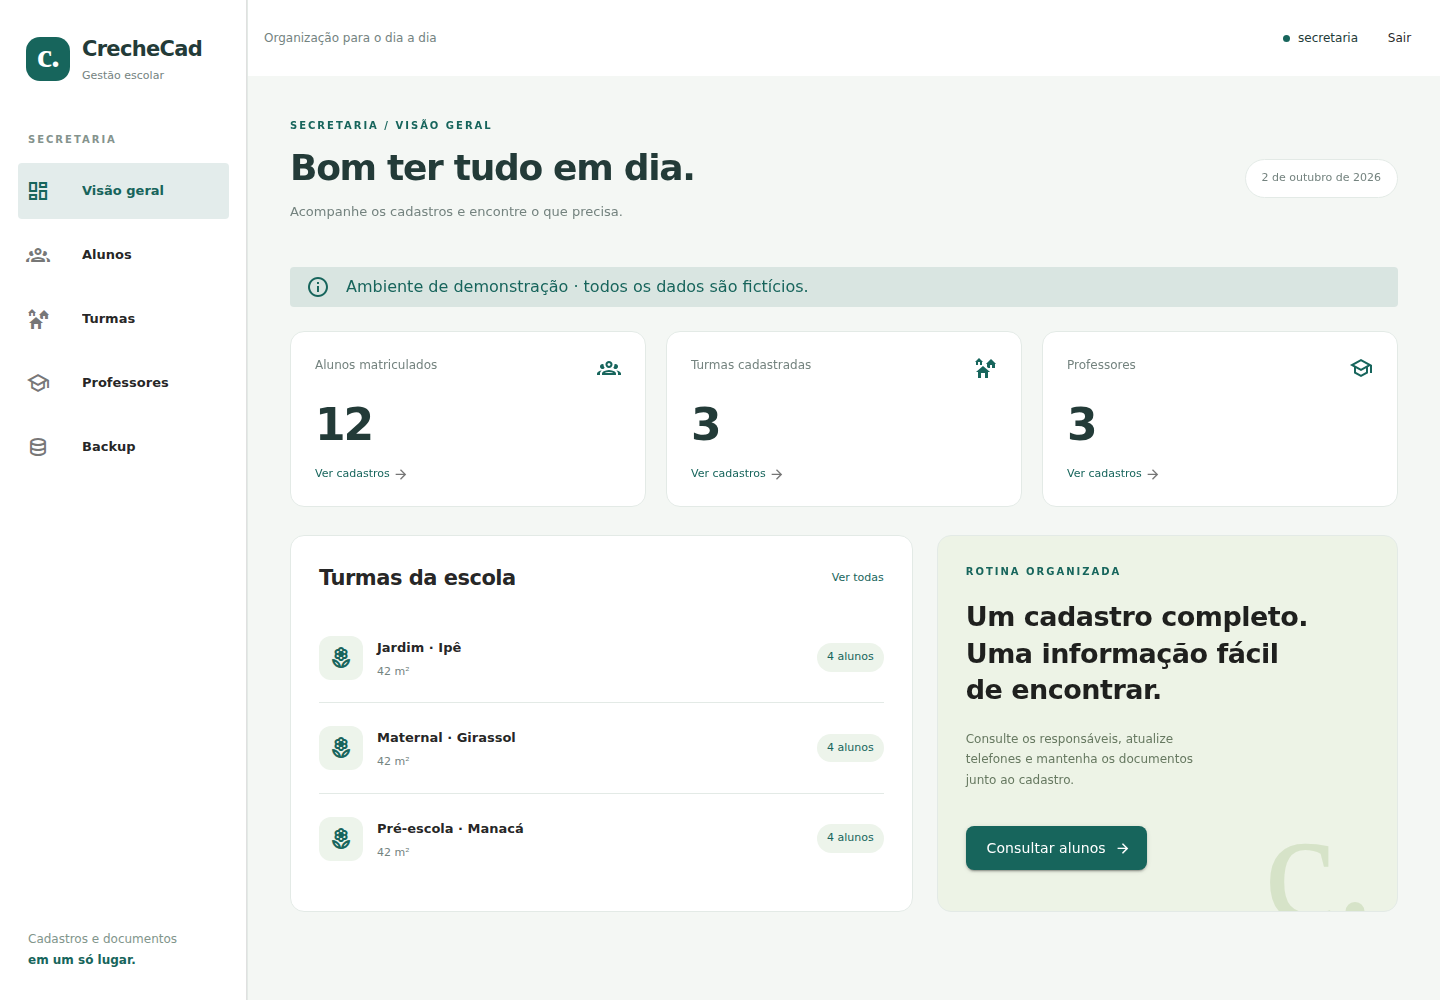
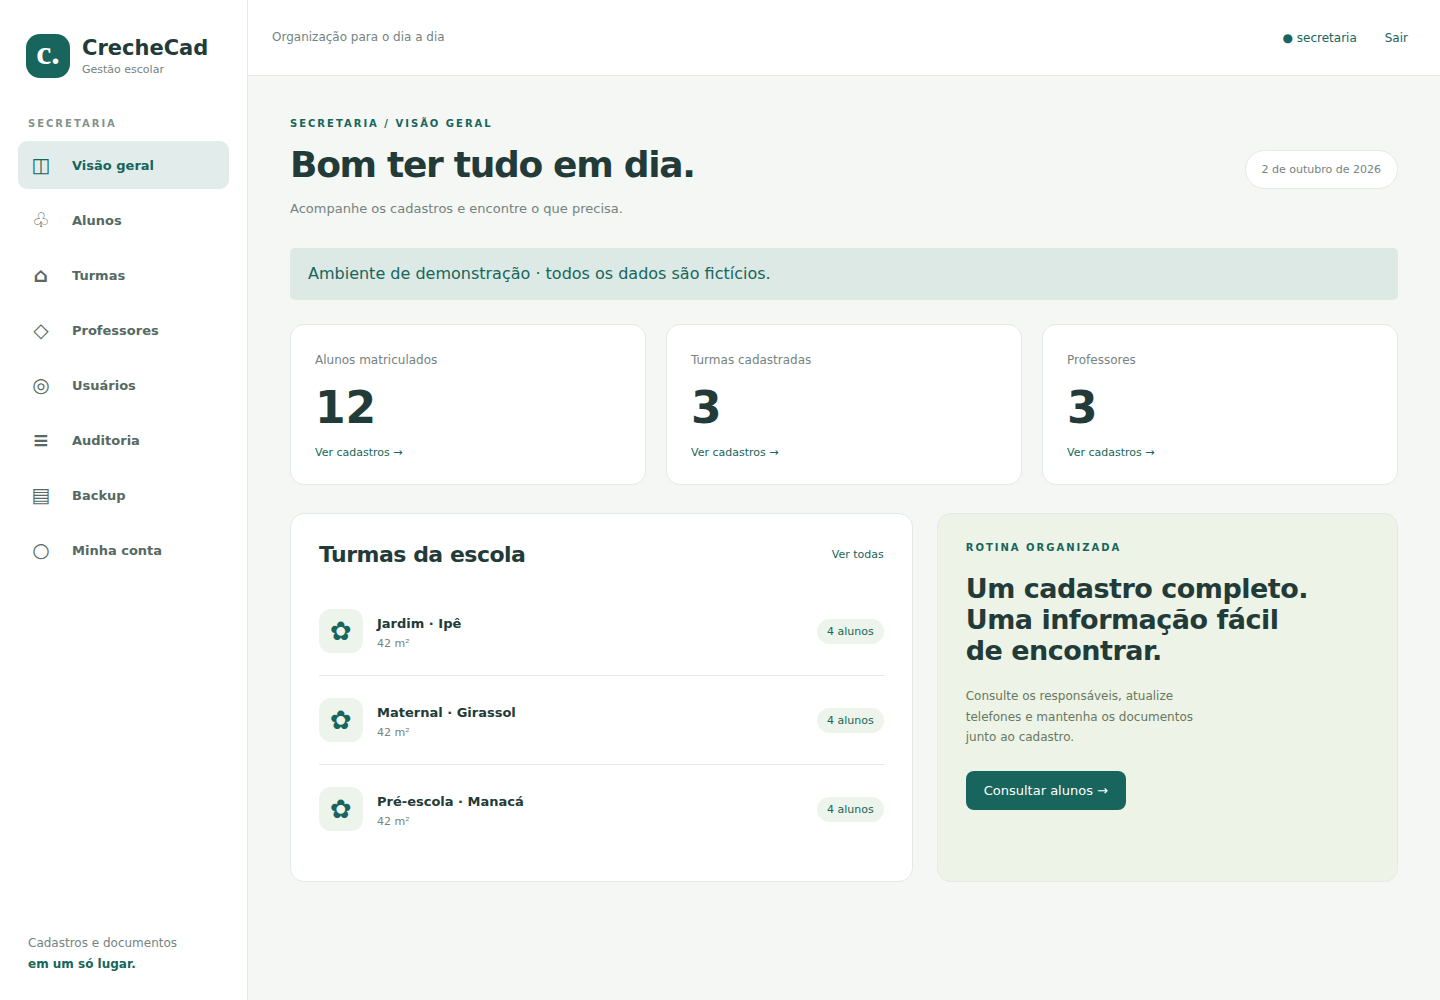
Present completed .NET applications with current screenshots and evaluation walkthroughs

diff --git a/script.js b/script.js
@@ -92,7 +92,7 @@ const translations = {
     contribution: "Implementação",
     decisions: "Decisões técnicas",
     proof: "Testes e código",
-    limits: "O que falta",
+    limits: "Como executar",
     close: "Fechar detalhes",
     complete: "Aplicação completa · Docker Compose",
     archive: "Estudo anterior · .NET 6",
@@ -194,7 +194,7 @@ const translations = {
     contribution: "Implementation",
     decisions: "Technical decisions",
     proof: "Tests and source",
-    limits: "Remaining work",
+    limits: "How to run",
     close: "Close project details",
     complete: "Complete application · Docker Compose",
     archive: "Earlier study · .NET 6",
@@ -222,22 +222,22 @@ const projects = [
       "Playwright"
     ],
     "code": "https://github.com/LucianoNeo/portfolio/tree/main/projects/neotasks-dotnet",
-    "pt": "Reaproveitei minha interface React e conectei a uma API .NET com PostgreSQL. Projetos, tarefas, equipe e horas em uma aplicação que você pode executar com Docker Compose.",
-    "en": "I reused my React interface and connected it to a .NET API with PostgreSQL. Projects, tasks, team members and time tracking in an application you can run with Docker Compose.",
+    "pt": "Projetos, tarefas e horas do time com dados separados por organização. Interface React, API .NET e PostgreSQL, com recuperação de senha, renovação de sessão, auditoria e busca paginada. Executável com Docker Compose.",
+    "en": "Team projects, tasks and time entries with separate organization data. React interface, .NET API and PostgreSQL, with password recovery, session renewal, audit history and paginated search. Runs with Docker Compose.",
     "study": {
       "pt": [
-        "Reunir projetos, tarefas e horas do time, com dados separados por organização.",
-        "Adaptei os componentes da minha interface React para uma API em C#/.NET. Incluí cadastro de organização, login, gestão de equipe, tarefas e apontamentos. Interface, API e PostgreSQL sobem juntos com Docker Compose.",
-        "A organização vem do JWT. Owner gerencia projetos e colaboradores; membros trabalham nas tarefas. Atualizações usam controle de concorrência e os horários são armazenados em UTC. O Nginx atende a interface e encaminha as chamadas à API.",
-        "Testes HTTP usam PostgreSQL real. O GitHub Actions compila o Compose e executa o fluxo no Chromium com Playwright, incluindo cadastro, permissões, edição, horas e persistência após reiniciar os containers.",
-        "É uma demonstração para avaliação local; o README explica como executar. Ainda faltam recuperação de senha, renovação de token, auditoria, paginação do contrato da interface e migrations."
+        "Reunir projetos, tarefas e horas do time, mantendo os dados de cada organização separados.",
+        "Adaptei minha interface React para uma API C#/.NET e PostgreSQL. Completei cadastro, equipe, tarefas, apontamentos, confirmação de e-mail, recuperação de senha e auditoria. O Compose também entrega uma caixa de e-mail para testar os fluxos.",
+        "Owner gerencia projetos e colaboradores; membros trabalham nas tarefas. O acesso usa JWT e um refresh token rotativo em cookie HttpOnly. A busca e a paginação são feitas no servidor. Horários ficam em UTC, atualizações usam controle de concorrência e migrations atualizam o banco sem apagar os dados da versão anterior.",
+        "Testes de integração usam PostgreSQL real e verificam isolamento, permissões, concorrência, horários, paginação e atualização do esquema. Playwright percorre a interface, a confirmação de e-mail, a recuperação de senha, a renovação de sessão e a persistência após reiniciar os containers.",
+        "Na pasta projects/neotasks-dotnet, execute docker compose up --build e abra localhost:8080. Crie sua organização e use localhost:8025 para ler os e-mails da demonstração. O README traz as capturas e o roteiro de avaliação."
       ],
       "en": [
         "Bring together the team's projects, tasks and time entries while separating each organization's data.",
-        "I adapted the components from my React interface to a C#/.NET API. Organization signup, login, team management, tasks and time entries are included. Docker Compose starts the interface, API and PostgreSQL together.",
-        "Organization identity comes from the JWT. Owners manage projects and team members; members work on tasks. Updates use concurrency checks and timestamps are stored in UTC. Nginx serves the interface and forwards API requests.",
-        "HTTP tests use real PostgreSQL. GitHub Actions builds the Compose stack and runs the flow in Chromium with Playwright, covering signup, permissions, edits, time entries and persistence after container restarts.",
-        "This is a demonstration for local evaluation; the README explains how to run it. Password recovery, token renewal, auditing, pagination for the UI contract and migrations are still missing."
+        "I adapted my React interface to a C#/.NET API and PostgreSQL. Signup, team management, tasks, time entries, email confirmation, password recovery and auditing are included. Compose also provides an email inbox to test the workflows.",
+        "Owners manage projects and team members; members work on tasks. Authentication uses JWT and a rotating refresh token in an HttpOnly cookie. Search and pagination run on the server. Timestamps use UTC, updates check concurrency, and migrations upgrade the database while preserving data from the previous release.",
+        "Integration tests use real PostgreSQL and cover isolation, permissions, concurrency, time calculations, pagination and schema upgrades. Playwright exercises the interface, email confirmation, password recovery, session renewal and persistence after container restarts.",
+        "In projects/neotasks-dotnet, run docker compose up --build and open localhost:8080. Create an organization and use localhost:8025 to read demo emails. The README includes screenshots and a review walkthrough."
       ]
     }
   },
@@ -253,27 +253,27 @@ const projects = [
       ".NET 10",
       "EF Core",
       "SQLite",
-      "Vue / Nuxt",
+      "Vue 3 / Nuxt 4",
       "Docker Compose",
       "Playwright"
     ],
     "code": "https://github.com/LucianoNeo/creche_cad_backend_csharp",
-    "pt": "Cadastro de alunos, turmas, professores e documentos. API C#/.NET, interface Vue/Nuxt e execução com Docker Compose. Revisei o login, as consultas e o backup, e documentei a aplicação com capturas reais.",
-    "en": "Student, class, teacher and document management. C#/.NET API, Vue/Nuxt interface and Docker Compose setup. I revised authentication, queries and backups, and documented the application with real screenshots.",
+    "pt": "Gestão de alunos, turmas, professores e documentos. API .NET, interface Vue 3/Nuxt 4, contas da equipe, permissões, auditoria e backup. O Compose entrega a aplicação com dados fictícios para avaliação.",
+    "en": "Student, class, teacher and document management. .NET API, Vue 3/Nuxt 4 interface, staff accounts, permissions, audit history and backups. Compose starts the application with fictional review data.",
     "study": {
       "pt": [
-        "Manter os cadastros de uma escola organizados, com responsáveis, contatos e documentos vinculados a alunos e professores.",
-        "Desenvolvi o cadastro com C# e Vue/Nuxt. Nesta revisão, atualizei a API para .NET 10, preservei o front original e preparei os containers, os dados fictícios e o roteiro para avaliação.",
-        "Substituí o login no JavaScript por sessão com cookie HttpOnly e proteção CSRF. A listagem de alunos busca o nome da turma em uma consulta. O SQLite mantém os cadastros e os documentos no mesmo backup; usei sua API de snapshot para não copiar um arquivo em uso.",
-        "O GitHub Actions compila os containers e executa sete testes com Playwright. Eles verificam autenticação, validações, CRUD, bloqueio de exclusão de turma ocupada, uploads, backup, edição pelo navegador e navegação em desktop e celular. As capturas do README vêm dessa execução.",
-        "A versão de avaliação usa uma conta administrativa. Ainda faltam usuários por funcionário, auditoria e paginação no servidor. O front está em Vue/Nuxt 2; sua migração está pendente."
+        "Organizar a rotina de uma secretaria escolar, com responsáveis, contatos e documentos vinculados a alunos e professores.",
+        "Desenvolvi o cadastro com C# e Vue. Atualizei a API para .NET 10 e migrei a interface para Vue 3/Nuxt 4. Completei as contas da equipe, os três perfis de acesso, a recuperação administrada pela secretaria e o histórico de alterações.",
+        "O servidor controla permissões e sessões com cookie HttpOnly e CSRF. Alterações de senha ou acesso invalidam sessões anteriores. A busca é paginada no banco; o SQLite mantém cadastros e documentos no mesmo snapshot de backup. As migrations preservam a evolução do esquema.",
+        "Nove testes no GitHub Actions verificam API e navegador: cadastros, vínculos, documentos, backup, perfis, recuperação, auditoria, busca e paginação. O README mostra capturas reais, incluindo a interface no celular.",
+        "Clone o repositório, copie .env.example para .env e execute docker compose up --build --detach --wait. Abra localhost:8082; as credenciais e um roteiro curto estão no README."
       ],
       "en": [
-        "Keep school records organized, with guardians, contact details and documents linked to students and teachers.",
-        "I developed the records workflow with C# and Vue/Nuxt. In this revision, I updated the API to .NET 10, kept the original frontend and prepared containers, fictional data and an evaluation walkthrough.",
-        "I replaced browser-only login with an HttpOnly session cookie and CSRF protection. The student list retrieves class names in one query. SQLite keeps records and documents in the same backup; I used its snapshot API instead of copying an active database file.",
-        "GitHub Actions builds the containers and runs seven Playwright tests covering authentication, validation, CRUD, occupied class deletion, uploads, backups, browser edits and desktop/mobile navigation. The README screenshots come from that run.",
-        "The review version has one administrative account. Staff accounts, auditing and server-side pagination are pending. The frontend uses Vue/Nuxt 2 and still needs migration."
+        "Organize school administration, with guardians, contact details and documents linked to students and teachers.",
+        "I built the records workflow with C# and Vue, updated the API to .NET 10 and migrated the interface to Vue 3/Nuxt 4. Staff accounts, three permission levels, administrator-managed recovery and audit history are included.",
+        "The server enforces permissions and HttpOnly sessions with CSRF. Password or access changes invalidate previous sessions. Search is paginated in the database; SQLite keeps records and documents in the same backup snapshot. Versioned migrations preserve schema evolution.",
+        "Nine GitHub Actions tests cover the API and browser: records, relationships, documents, backups, roles, recovery, auditing, search and pagination. The README includes real screenshots and the mobile interface.",
+        "Clone the repository, copy .env.example to .env and run docker compose up --build --detach --wait. Open localhost:8082; the README includes credentials and a short review walkthrough."
       ]
     }
   },

diff --git a/resume.html b/resume.html
@@ -97,7 +97,7 @@
         </p>
         <h2>Desenvolvimento assistido por IA</h2><p>Uso Claude Code, Codex, Hermes e OpenClaw no desenvolvimento assistido por IA.</p>
         <h2>Projetos selecionados</h2>
-        <ul><li><b>NeoTasks · React + .NET:</b> projetos, tarefas, colaboradores e horas. Interface React integrada à API .NET, PostgreSQL e execução com Docker Compose.</li><li><b>CrecheCad:</b> cadastros escolares e documentos, API .NET, EF Core e SQLite, interface Vue/Nuxt e Docker Compose. Autenticação no servidor, validações e testes de API e navegação.</li><li><b>NeoScan Raids:</b> aplicação Next.js e TypeScript para encontrar raids, filtrar eventos e organizar partidas.</li><li><b>Pokémon Sleep Companion:</b> guia multilíngue em Nuxt e Vuetify para consultar Pokémon, receitas e itens.</li></ul>
+        <ul><li><b>NeoTasks · React + .NET:</b> projetos, tarefas, colaboradores e horas. Interface React integrada à API .NET, PostgreSQL e execução com Docker Compose.</li><li><b>CrecheCad:</b> cadastros escolares e documentos, API .NET, EF Core e SQLite, interface Vue 3/Nuxt 4 e Docker Compose. Perfis da equipe, auditoria, busca paginada e testes de API e navegação.</li><li><b>NeoScan Raids:</b> aplicação Next.js e TypeScript para encontrar raids, filtrar eventos e organizar partidas.</li><li><b>Pokémon Sleep Companion:</b> guia multilíngue em Nuxt e Vuetify para consultar Pokémon, receitas e itens.</li></ul>
 <h2>Experiência</h2><p><b>IngaCode · Desenvolvedor Full Stack · PJ</b><br />Desde fev. 2023<br />Participo das entregas do time desde a análise de requisitos até o deploy, trabalhando em APIs, microsserviços e front-end. Resolvo bugs de produção nessas três camadas. Também desenvolvi e entreguei de forma independente uma release com Vue 2 no front-end e .NET 8 no back-end.</p><p><b>NeoTecHouse Info · Desenvolvedor Front-end / Mobile</b><br />2022–2023<br />Desenvolvimento de SPAs e aplicações mobile com JavaScript, TypeScript, React e React Native.</p><p><b>NeoScan / Moltres Scan · Administrador de Sistemas · SaaS</b><br />Desde 2017<br />Administração remota da infraestrutura da NeoScan, hoje Moltres Scan, um SaaS para jogadores de Pokémon GO com mapas em tempo real e alertas no Discord. Trabalho com servidores Ubuntu, Apache, PHP, MariaDB, Docker e automações em Python, Node.js e shell. Atividade paralela à prestação de serviços PJ para a IngaCode.<br /><a href="https://neoscan.com.br/">neoscan.com.br</a></p><p><b>NeoTecHouse Info · Suporte Técnico</b><br />2010–2022<br />Suporte a usuários, administração de servidores, instalação e manutenção de redes, montagem e manutenção de computadores.</p><p><b>Compmaster Informática · Suporte Técnico</b><br />2006–2010<br />Suporte a usuários, administração de servidores, redes e manutenção de computadores.</p><h2>Formação</h2><p><b>Graduação em Redes de Computadores</b><br />FAE Centro Universitário · São José dos Pinhais<br />Conclusão: dezembro de 2017</p><h2>Cursos e formação complementar</h2><ul><li>Full Stack Developer · DIO · 2024 · 127 h</li><li>Vue.js 3 · Alura · 2023 · 27 h</li><li>Jornada DevOps com AWS · DIO · 2022 · 69 h</li><li>Spread Full Stack Developer · DIO · 2022 · 98 h</li></ul><p>Inglês · B2</p><p><a href="https://www.linkedin.com/in/lucianoneo">Perfil profissional no LinkedIn</a></p>
       </section>
       <section id="en" hidden>
@@ -111,7 +111,7 @@
         </p>
         <h2>AI-assisted development</h2><p>I use Claude Code, Codex, Hermes and OpenClaw for AI-assisted development.</p>
         <h2>Selected projects</h2>
-        <ul><li><b>NeoTasks · React + .NET:</b> projects, tasks, team members and time tracking. React interface integrated with a .NET API, PostgreSQL and Docker Compose.</li><li><b>CrecheCad:</b> school records and documents, .NET API, EF Core and SQLite, Vue/Nuxt interface and Docker Compose. Server-side authentication, validation and API/browser tests.</li><li><b>NeoScan Raids:</b> Next.js and TypeScript application to find raids, filter events and organize sessions.</li><li><b>Pokémon Sleep Companion:</b> multilingual Nuxt and Vuetify guide to Pokémon, recipes and items.</li></ul>
+        <ul><li><b>NeoTasks · React + .NET:</b> projects, tasks, team members and time tracking. React interface integrated with a .NET API, PostgreSQL and Docker Compose.</li><li><b>CrecheCad:</b> school records and documents, .NET API, EF Core and SQLite, Vue 3/Nuxt 4 interface and Docker Compose. Staff roles, auditing, paginated search and API/browser tests.</li><li><b>NeoScan Raids:</b> Next.js and TypeScript application to find raids, filter events and organize sessions.</li><li><b>Pokémon Sleep Companion:</b> multilingual Nuxt and Vuetify guide to Pokémon, recipes and items.</li></ul>
 <h2>Experience</h2><p><b>IngaCode · Full Stack Developer · Contractor</b><br />Since Feb 2023<br />I work with the team from requirements analysis through deployment, delivering changes to APIs, microservices and front ends. I fix production bugs across these areas. I also independently developed and delivered a release with Vue 2 on the front end and .NET 8 on the back end.</p><p><b>NeoTecHouse Info · Front-end / Mobile Developer</b><br />2022–2023<br />SPA and mobile application development with JavaScript, TypeScript, React and React Native.</p><p><b>NeoScan / Moltres Scan · System Administrator · SaaS</b><br />Since 2017<br />Remote infrastructure administration for NeoScan, now Moltres Scan, a SaaS for Pokémon GO players with real-time maps and Discord alerts. I work with Ubuntu servers, Apache, PHP, MariaDB, Docker and automation in Python, Node.js and shell. This is a parallel activity alongside my primary contracting work for IngaCode.<br /><a href="https://neoscan.com.br/">neoscan.com.br</a></p><p><b>NeoTecHouse Info · Technical Support</b><br />2010–2022<br />End-user support, server administration, network installation and maintenance, and computer assembly and maintenance.</p><p><b>Compmaster Informática · Technical Support</b><br />2006–2010<br />End-user support, server administration, networking and computer maintenance.</p><h2>Education</h2><p><b>Degree in Computer Networking Technology</b><br />FAE Centro Universitário · São José dos Pinhais<br />Completed: December 2017</p><h2>Courses and additional training</h2><ul><li>Full Stack Developer · DIO · 2024 · 127 hours</li><li>Vue.js 3 · Alura · 2023 · 27 hours</li><li>DevOps Journey with AWS · DIO · 2022 · 69 hours</li><li>Spread Full Stack Developer · DIO · 2022 · 98 hours</li></ul><p>English · B2</p><p><a href="https://www.linkedin.com/in/lucianoneo">Professional profile on LinkedIn</a></p>
       </section>
       <script>

diff --git a/index.html b/index.html
@@ -375,6 +375,6 @@
         </div>
       </footer>
     </div>
-    <script src="script.js?v=6690f32c12" defer></script>
+    <script src="script.js?v=8dac86b8ce" defer></script>
   </body>
 </html>

diff --git a/README.md b/README.md
@@ -12,8 +12,8 @@ HTML, CSS e JavaScript, sem dependências de build. O workflow `pages.yml` publi
 
 | Projeto | O que mostra |
 | --- | --- |
-| [NeoTasks · React + .NET](projects/neotasks-dotnet/README.md) | Interface React integrada à API .NET, PostgreSQL, autenticação, tarefas, horas e Docker Compose |
-| [CrecheCad](https://github.com/LucianoNeo/creche_cad_backend_csharp) | Cadastro escolar com API .NET, EF Core, SQLite, Vue/Nuxt, autenticação, documentos, backup e Docker Compose |
+| [NeoTasks · React + .NET](projects/neotasks-dotnet/README.md) | Interface React integrada à API .NET, PostgreSQL, recuperação de senha, renovação de sessão, auditoria, tarefas, horas e Docker Compose |
+| [CrecheCad](https://github.com/LucianoNeo/creche_cad_backend_csharp) | Cadastro escolar com API .NET, EF Core, SQLite, Vue 3/Nuxt 4, perfis da equipe, auditoria, documentos, backup e Docker Compose |
 | [NeoScan Raids](https://github.com/LucianoNeo/neoscan-raids) | Aplicação Next.js e TypeScript para encontrar raids e organizar partidas |
 | [Pokémon Sleep Companion](https://github.com/LucianoNeo/pokemon-sleep-companion) | Guia multilíngue em Nuxt e Vuetify |
 | [Pokémon GO 2D](https://github.com/LucianoNeo/pogo2d) | Jogo com exploração, captura, inventário e interface para desktop e celular |
@@ -24,7 +24,7 @@ NeoTasks e CrecheCad incluem instruções para avaliação com Docker Compose. O
 
 O histórico profissional, a formação e os cursos foram baseados no currículo fornecido e nas informações confirmadas pelo autor. O PDF original e os contatos residenciais não são publicados. As fontes estão em `docs/profile-sources.md`.
 
-As imagens dos projetos vêm de seus respectivos repositórios. A captura do CrecheCad foi gerada no GitHub Actions com dados fictícios. Créditos dos assets do jogo estão documentados no projeto.
+As imagens dos projetos vêm de seus respectivos repositórios. As capturas do NeoTasks e do CrecheCad foram geradas no GitHub Actions com dados fictícios. Créditos dos assets do jogo estão documentados no projeto.
 
 ## English
 
